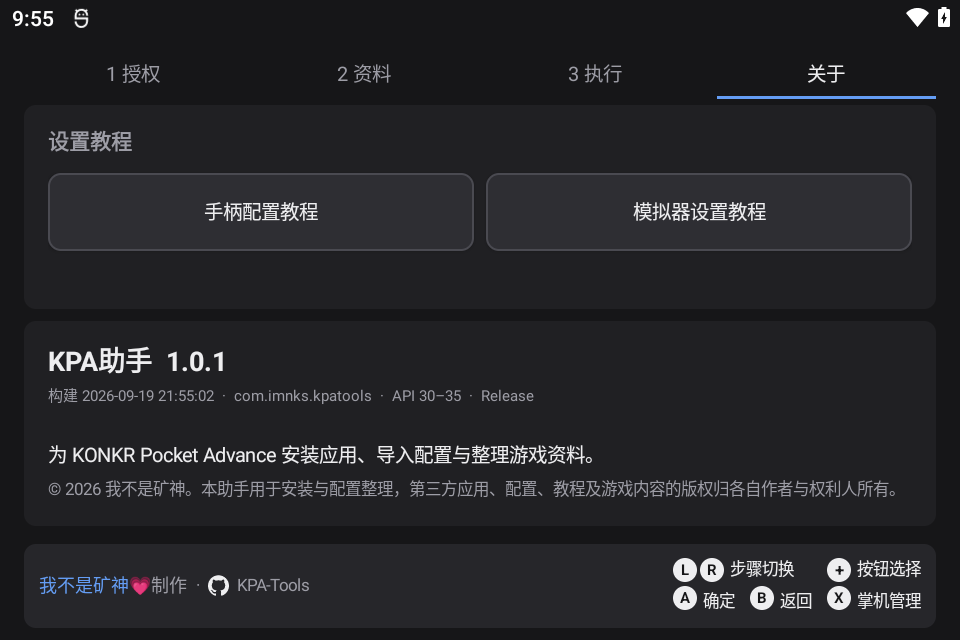
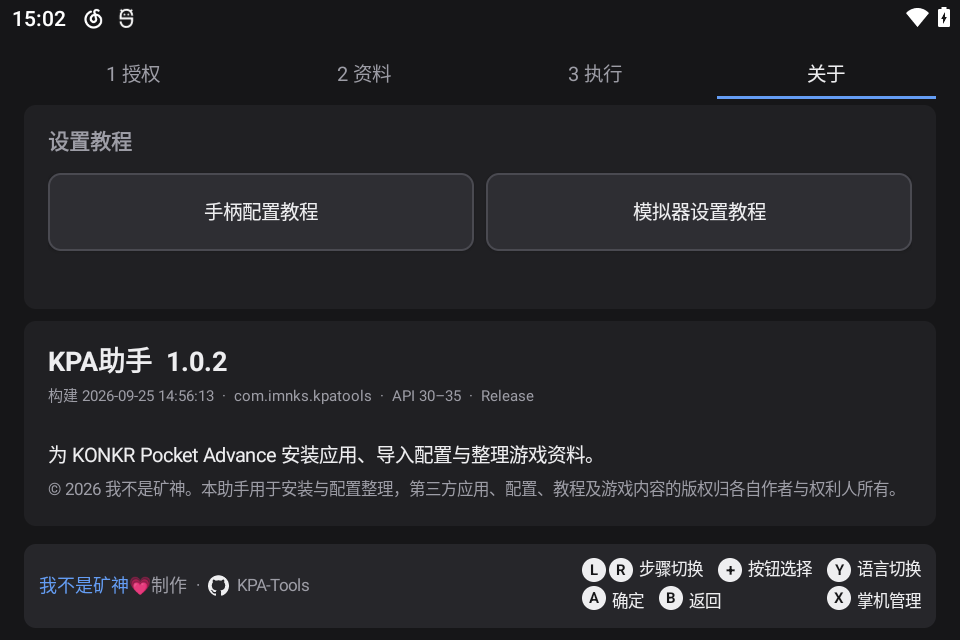
docs: use language-specific interface screenshots

diff --git a/README.en.md b/README.en.md
@@ -31,17 +31,13 @@ The result has three states: green means every verification passed; yellow means
 
 ## Interface
 
-| 1 Authorization | 2 Source |
+| 1 Authorization | 2 Sources |
 | --- | --- |
-| ![Authorization](docs/screenshots/01-授权.png) | ![Source](docs/screenshots/02-资料.png) |
+| ![Authorization](docs/screenshots/en/01-authorization.png) | ![Sources](docs/screenshots/en/02-sources.png) |
 
-| 3 Execution | 4 Progress |
+| 3 Execution | About |
 | --- | --- |
-| ![Execution](docs/screenshots/03-执行.png) | ![Progress](docs/screenshots/04-执行状态-v1.0.1.png) |
-
-| About |
-| --- |
-| ![About](docs/screenshots/05-关于.png) |
+| ![Execution](docs/screenshots/en/03-execution.png) | ![About](docs/screenshots/en/05-about.png) |
 
 ## Compatibility
 
